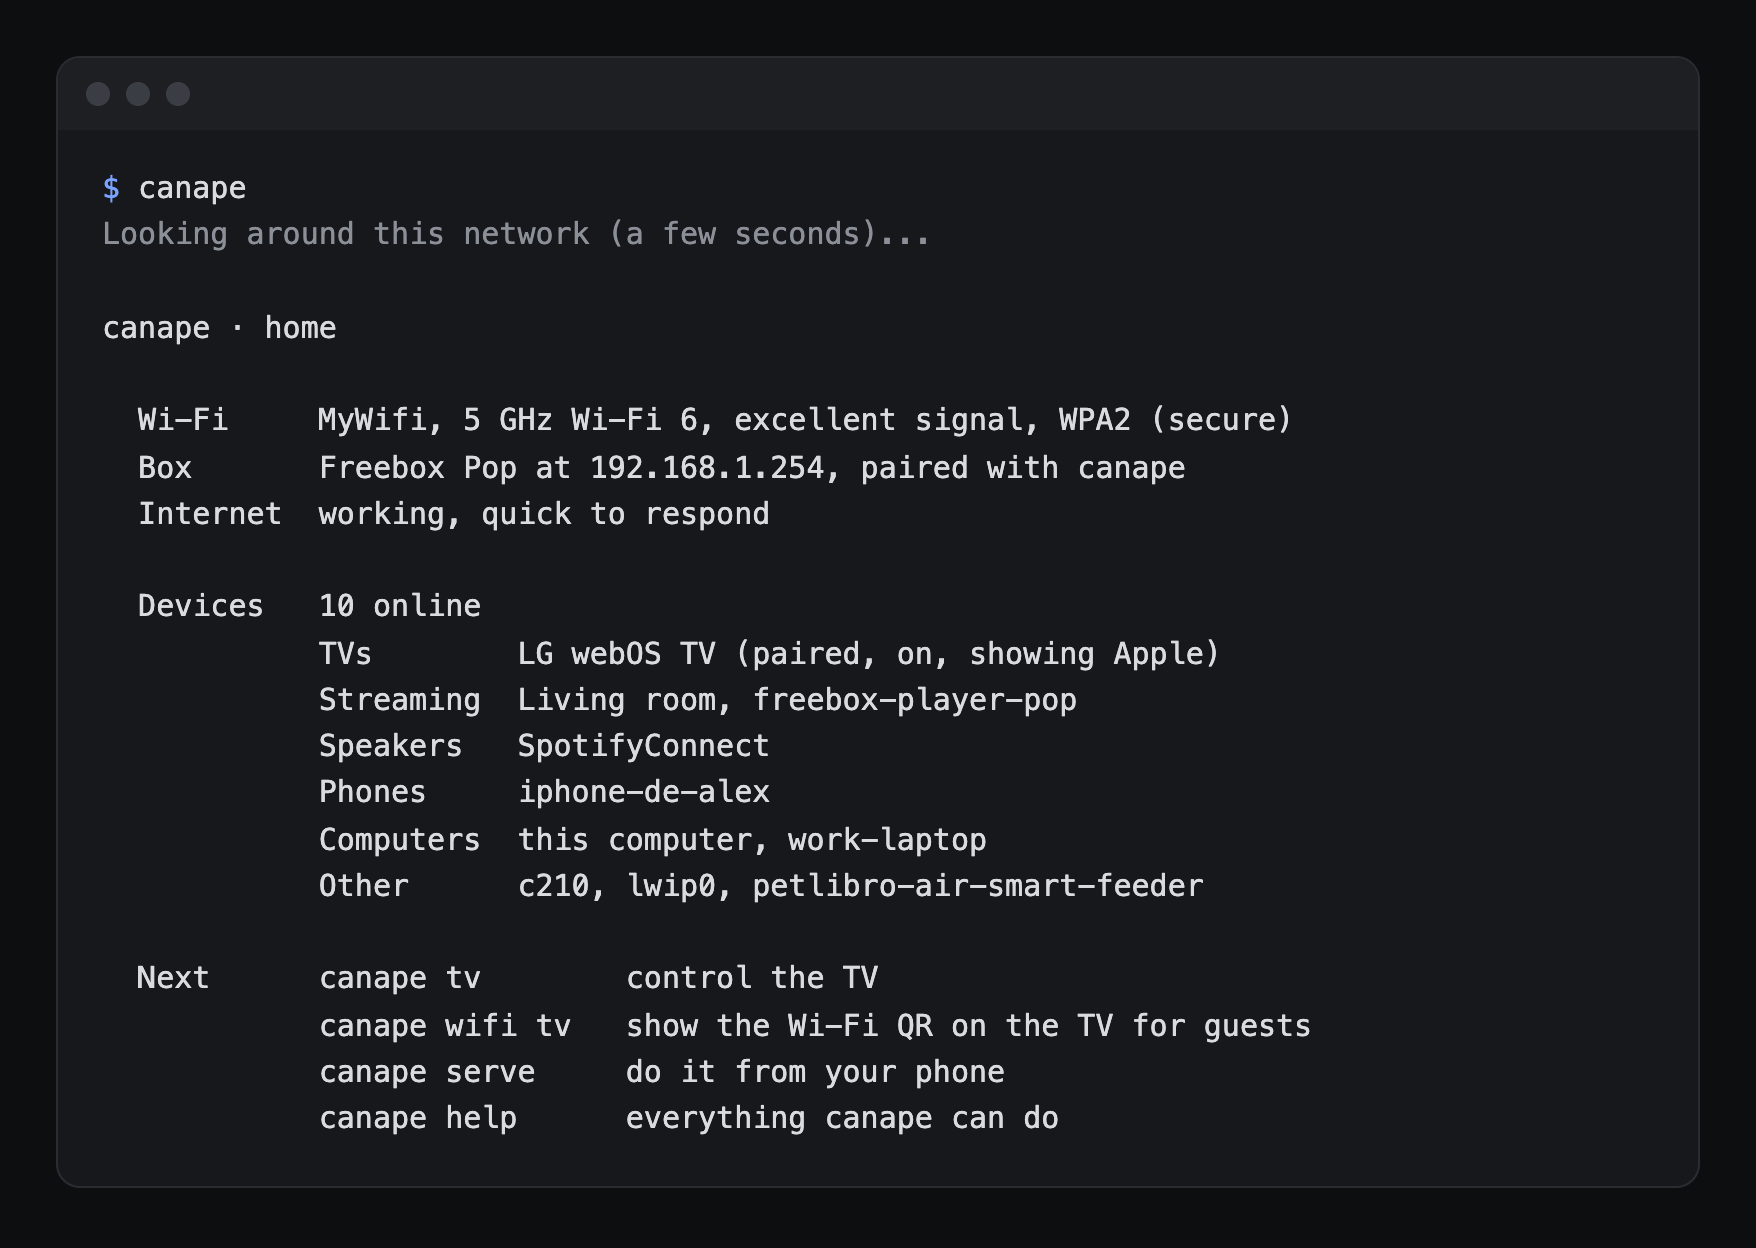
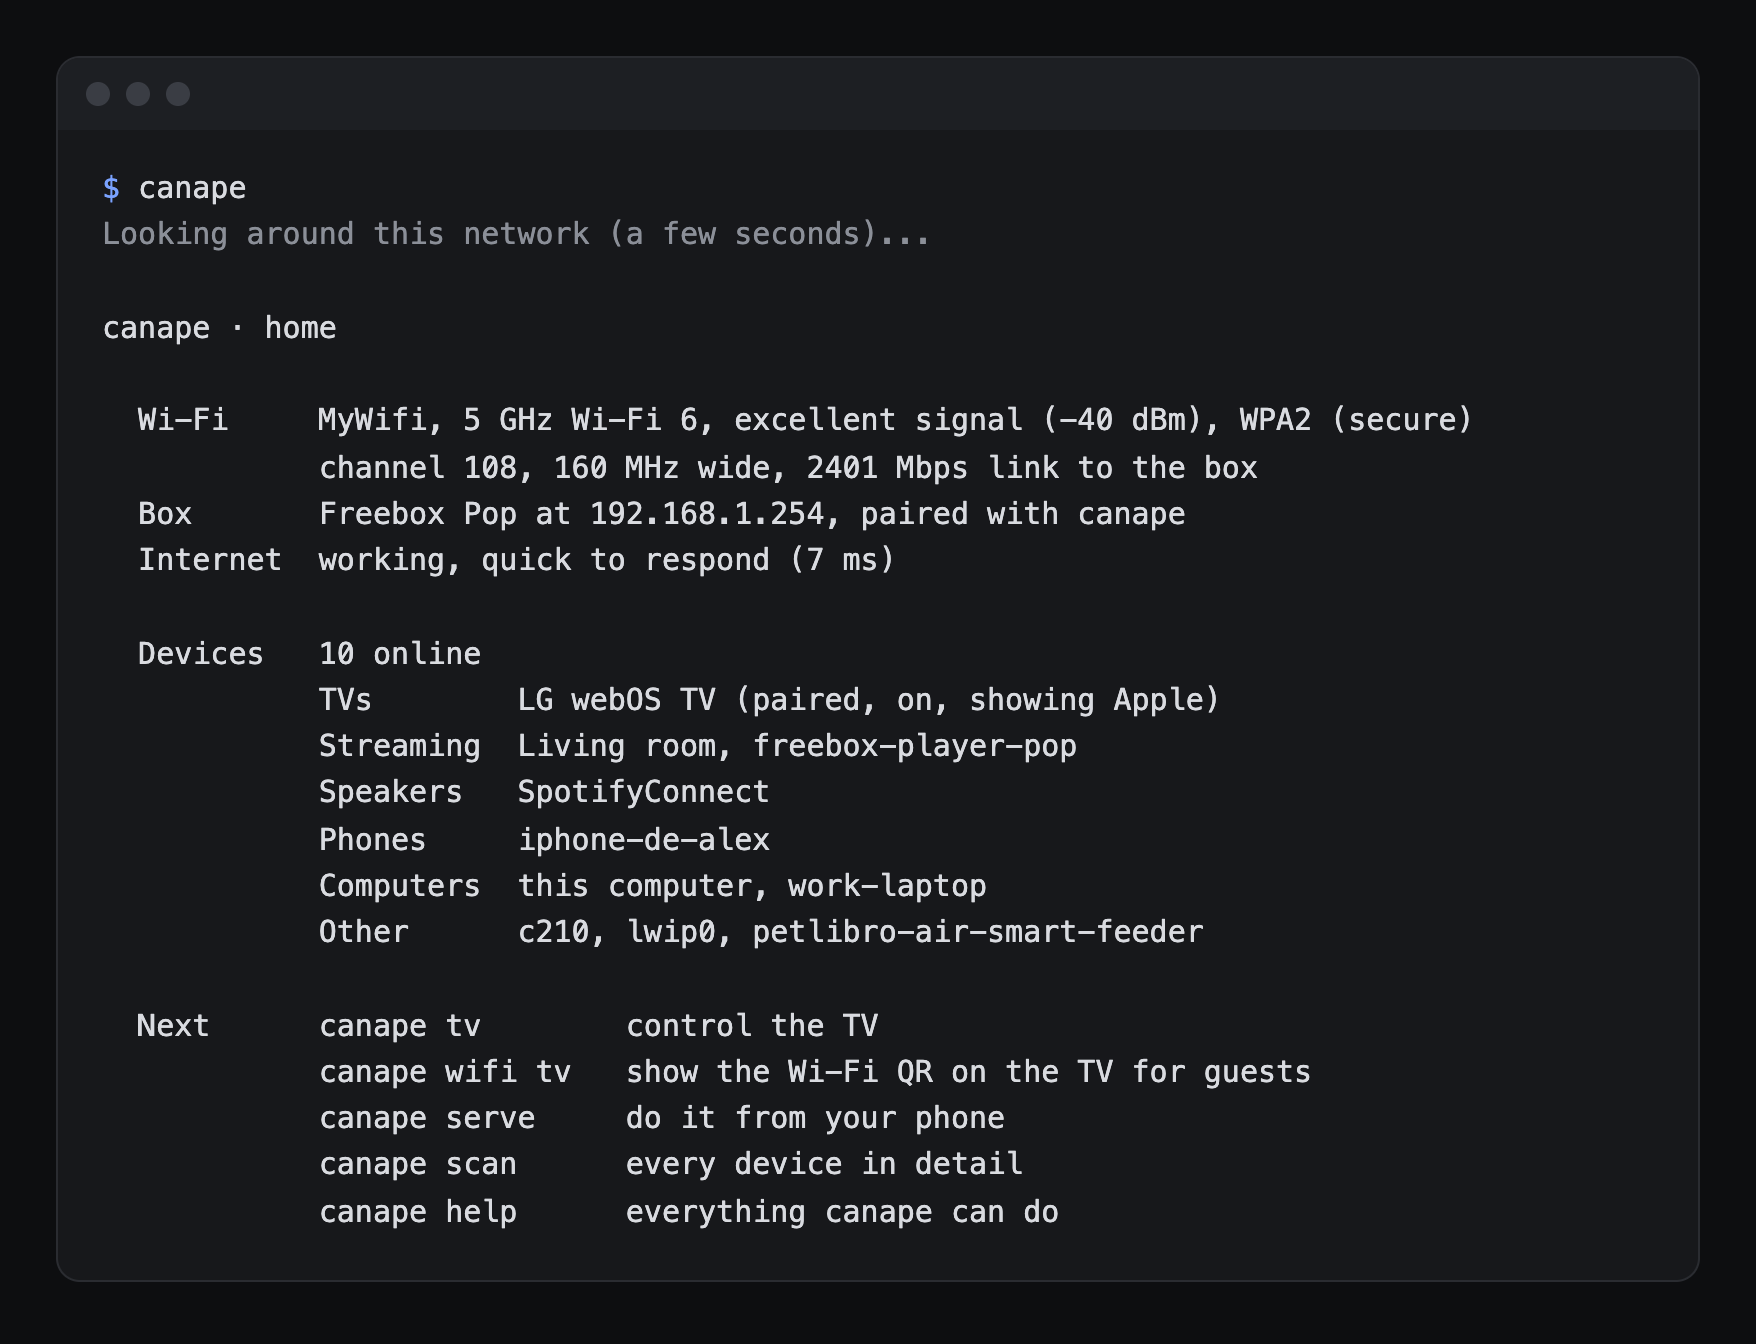
feat(report): show the numbers next to the words, point to canape scan

diff --git a/internal/discovery/wifi.go b/internal/discovery/wifi.go
@@ -1,6 +1,7 @@
 package discovery
 
 import (
+	"fmt"
 	"regexp"
 	"strconv"
 	"strings"
@@ -18,19 +19,37 @@ type Link struct {
 	Rate     int    `json:"rate"`     // Mbps between this machine and the box
 }
 
-// SignalWords says how good the signal is, for people who don't read dBm.
+// SignalWords says how good the signal is in words, with the dBm after
+// them for those who read it.
 func (l Link) SignalWords() string {
+	dbm := fmt.Sprintf(" (%d dBm)", l.Signal)
 	switch {
 	case l.Signal == 0:
 		return ""
 	case l.Signal >= -55:
-		return "excellent signal"
+		return "excellent signal" + dbm
 	case l.Signal >= -67:
-		return "good signal"
+		return "good signal" + dbm
 	case l.Signal >= -75:
-		return "fair signal"
+		return "fair signal" + dbm
 	}
-	return "weak signal, move closer to the box"
+	return "weak signal" + dbm + ", move closer to the box"
+}
+
+// Details is the connection in numbers, e.g. "channel 108, 160 MHz wide,
+// 2401 Mbps link to the box". Empty when macOS gave none of them.
+func (l Link) Details() string {
+	var parts []string
+	if l.Channel != "" {
+		parts = append(parts, "channel "+l.Channel)
+	}
+	if l.Width != "" {
+		parts = append(parts, l.Width+" wide")
+	}
+	if l.Rate > 0 {
+		parts = append(parts, fmt.Sprintf("%d Mbps link to the box", l.Rate))
+	}
+	return strings.Join(parts, ", ")
 }
 
 // SecurityWords grades the Wi-Fi encryption in plain words.

diff --git a/internal/discovery/internet.go b/internal/discovery/internet.go
@@ -2,6 +2,7 @@ package discovery
 
 import (
 	"context"
+	"fmt"
 	"net"
 	"time"
 )
@@ -25,10 +26,18 @@ func CheckInternet() Internet {
 			c.Close()
 		}
 	}
-	start := time.Now()
-	if c, err := net.DialTimeout("tcp", "1.1.1.1:443", 3*time.Second); err == nil {
-		in.Online, in.Latency = true, time.Since(start)
+	// The fastest of three tries: a scan running at the same time can delay
+	// one of them several times over.
+	for i := 0; i < 3; i++ {
+		start := time.Now()
+		c, err := net.DialTimeout("tcp", "1.1.1.1:443", 3*time.Second)
+		if err != nil {
+			break
+		}
 		c.Close()
+		if d := time.Since(start); !in.Online || d < in.Latency {
+			in.Online, in.Latency = true, d
+		}
 	}
 	ctx, cancel := context.WithTimeout(context.Background(), 3*time.Second)
 	defer cancel()
@@ -52,11 +61,12 @@ func (in Internet) Words() string {
 
 func speedWords(d time.Duration) string {
 	ms := d.Milliseconds()
+	words := "slow to respond"
 	switch {
 	case ms < 30:
-		return "quick to respond"
+		words = "quick to respond"
 	case ms < 80:
-		return "normal response time"
+		words = "normal response time"
 	}
-	return "slow to respond"
+	return fmt.Sprintf("%s (%d ms)", words, ms)
 }

diff --git a/cmd/report.go b/cmd/report.go
@@ -66,6 +66,9 @@ func report() error {
 		fmt.Print("\ncanape · a network you haven't set up\n\n")
 	}
 	row("Wi-Fi", wifiLine(h, link))
+	if link != nil && link.Details() != "" {
+		row("", link.Details())
+	}
 	gatewayIP, _, _ := discovery.Router()
 	row("Box", boxLine(h, scan, gatewayIP))
 	row("Internet", inet.Words())
@@ -128,6 +131,7 @@ func report() error {
 	if h.TV.Key != "" || h.Wifi.SSID != "" {
 		next = append(next, [2]string{"canape serve", "do it from your phone"})
 	}
+	next = append(next, [2]string{"canape scan", "every device in detail"})
 	next = append(next, [2]string{"canape help", "everything canape can do"})
 	for i, n := range next {
 		label := ""

diff --git a/internal/discovery/discovery_test.go b/internal/discovery/discovery_test.go
@@ -59,7 +59,10 @@ func TestParseLink(t *testing.T) {
 	if l.Band != "5 GHz" || l.Width != "160 MHz" || l.Channel != "108" || l.Standard != "Wi-Fi 6" || l.Security != "WPA2" || l.Signal != -40 {
 		t.Fatalf("parseLink = %+v", l)
 	}
-	if l.SignalWords() != "excellent signal" || l.SecurityWords() != "WPA2 (secure)" {
+	if l.SignalWords() != "excellent signal (-40 dBm)" || l.SecurityWords() != "WPA2 (secure)" {
 		t.Fatalf("words: %q %q", l.SignalWords(), l.SecurityWords())
+	}
+	if d := l.Details(); d != "channel 108, 160 MHz wide, 2401 Mbps link to the box" {
+		t.Fatalf("details: %q", d)
 	}
 }
